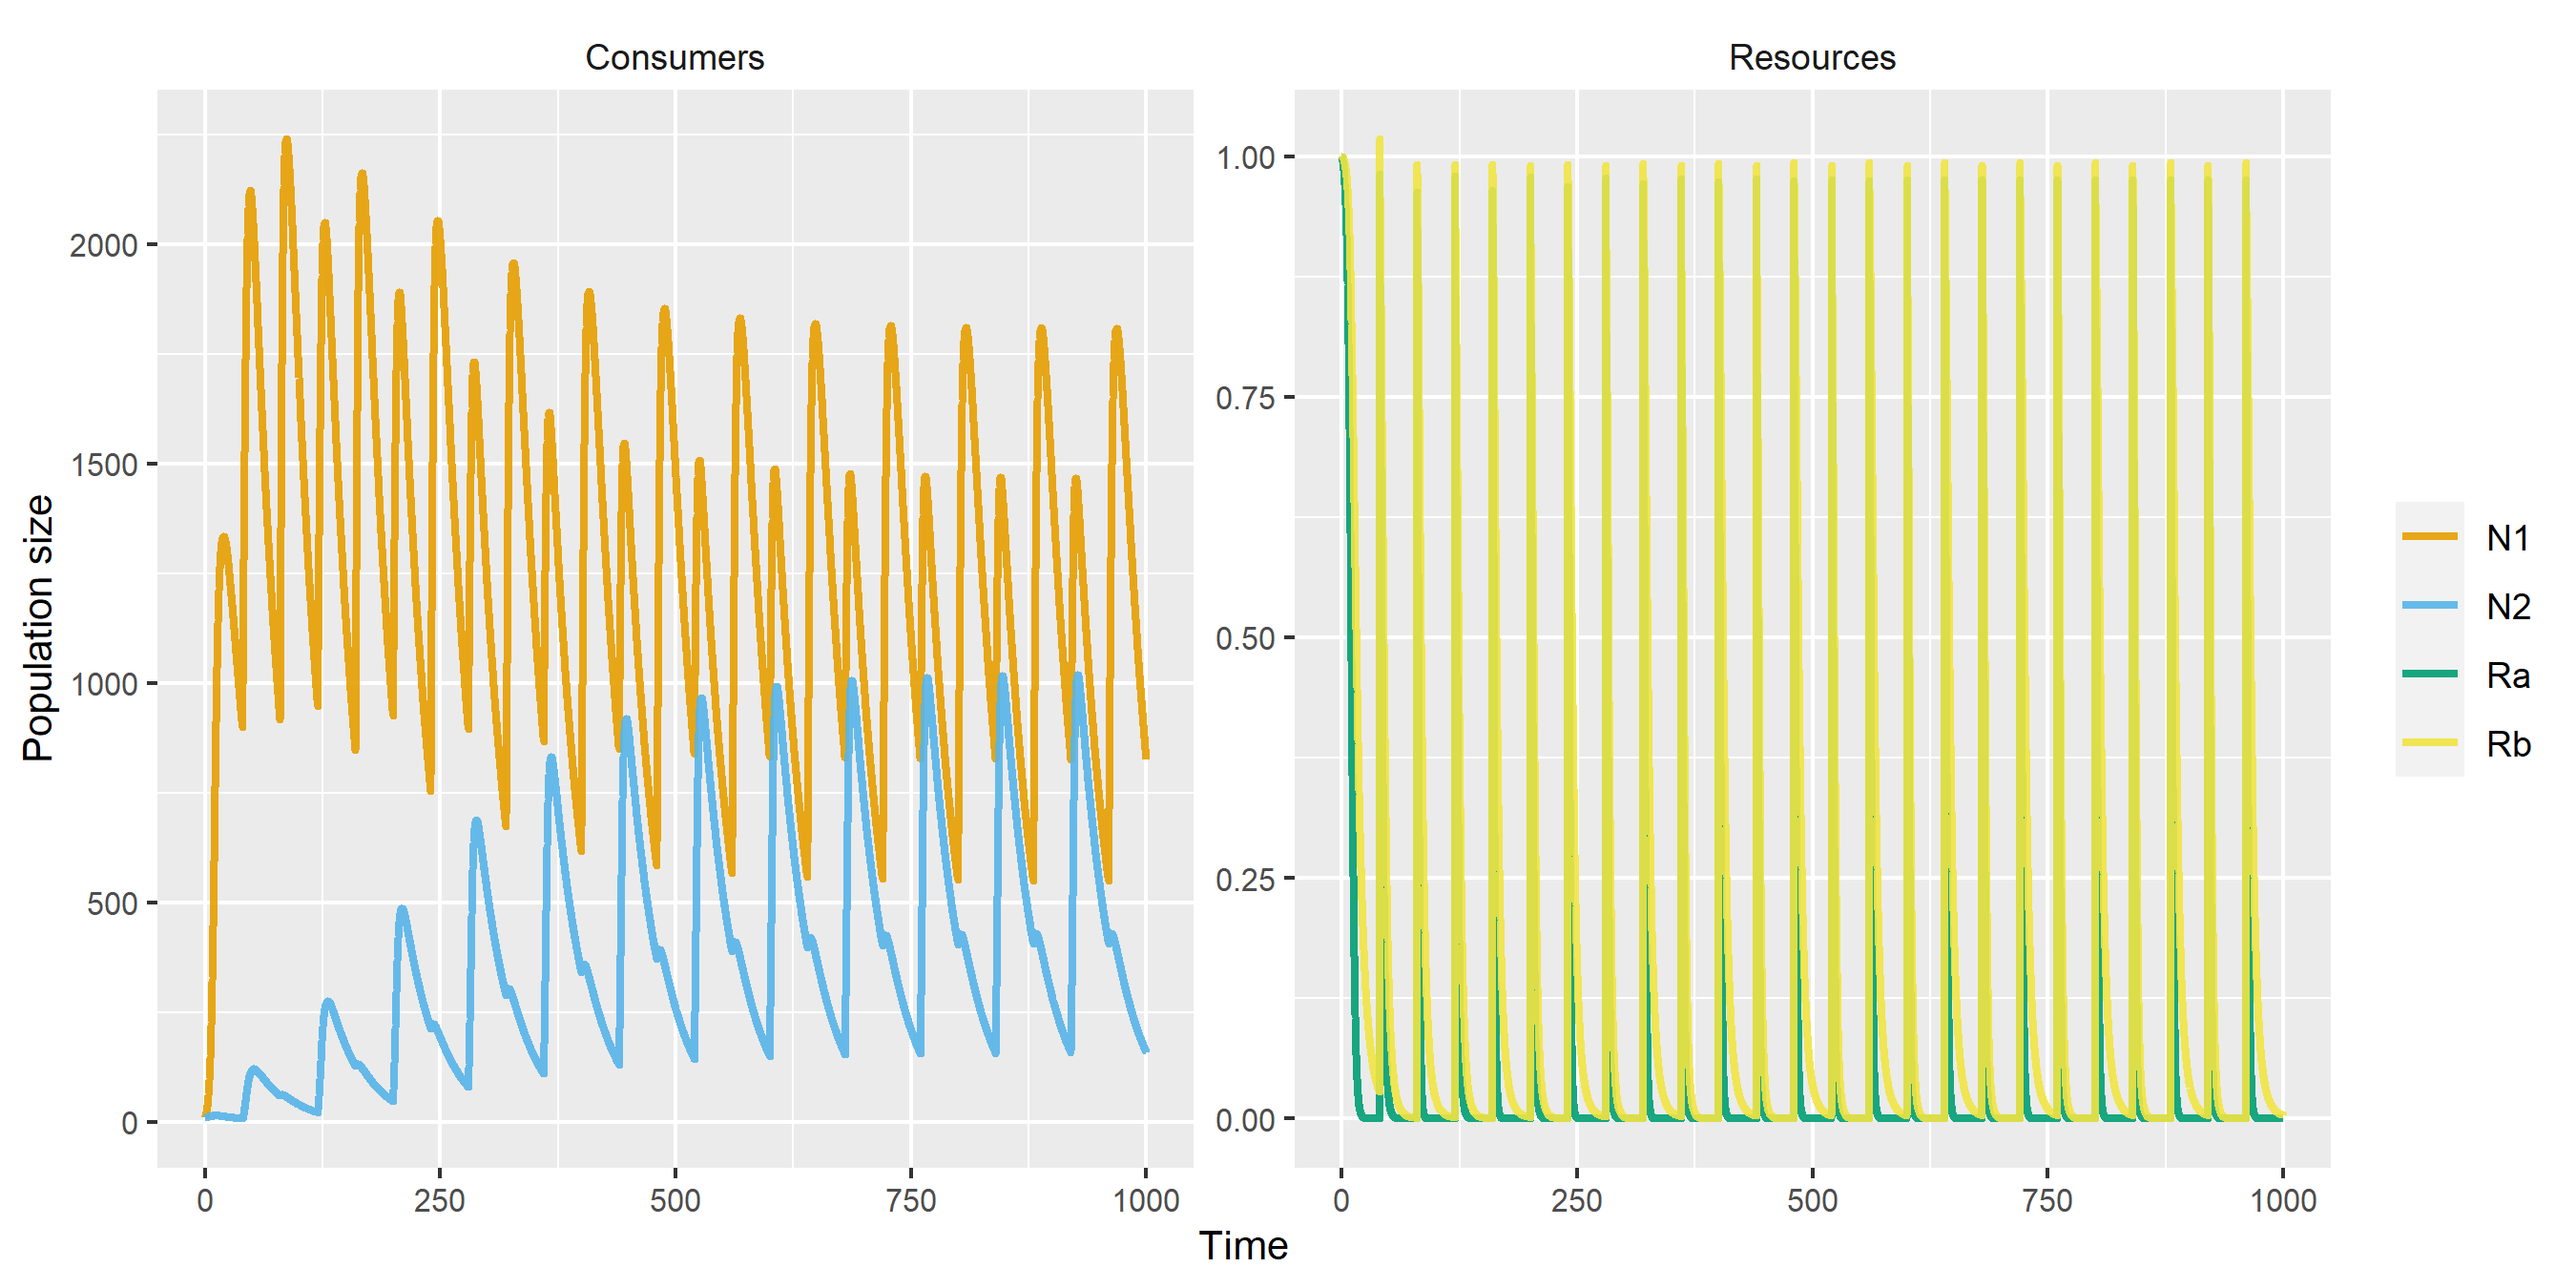
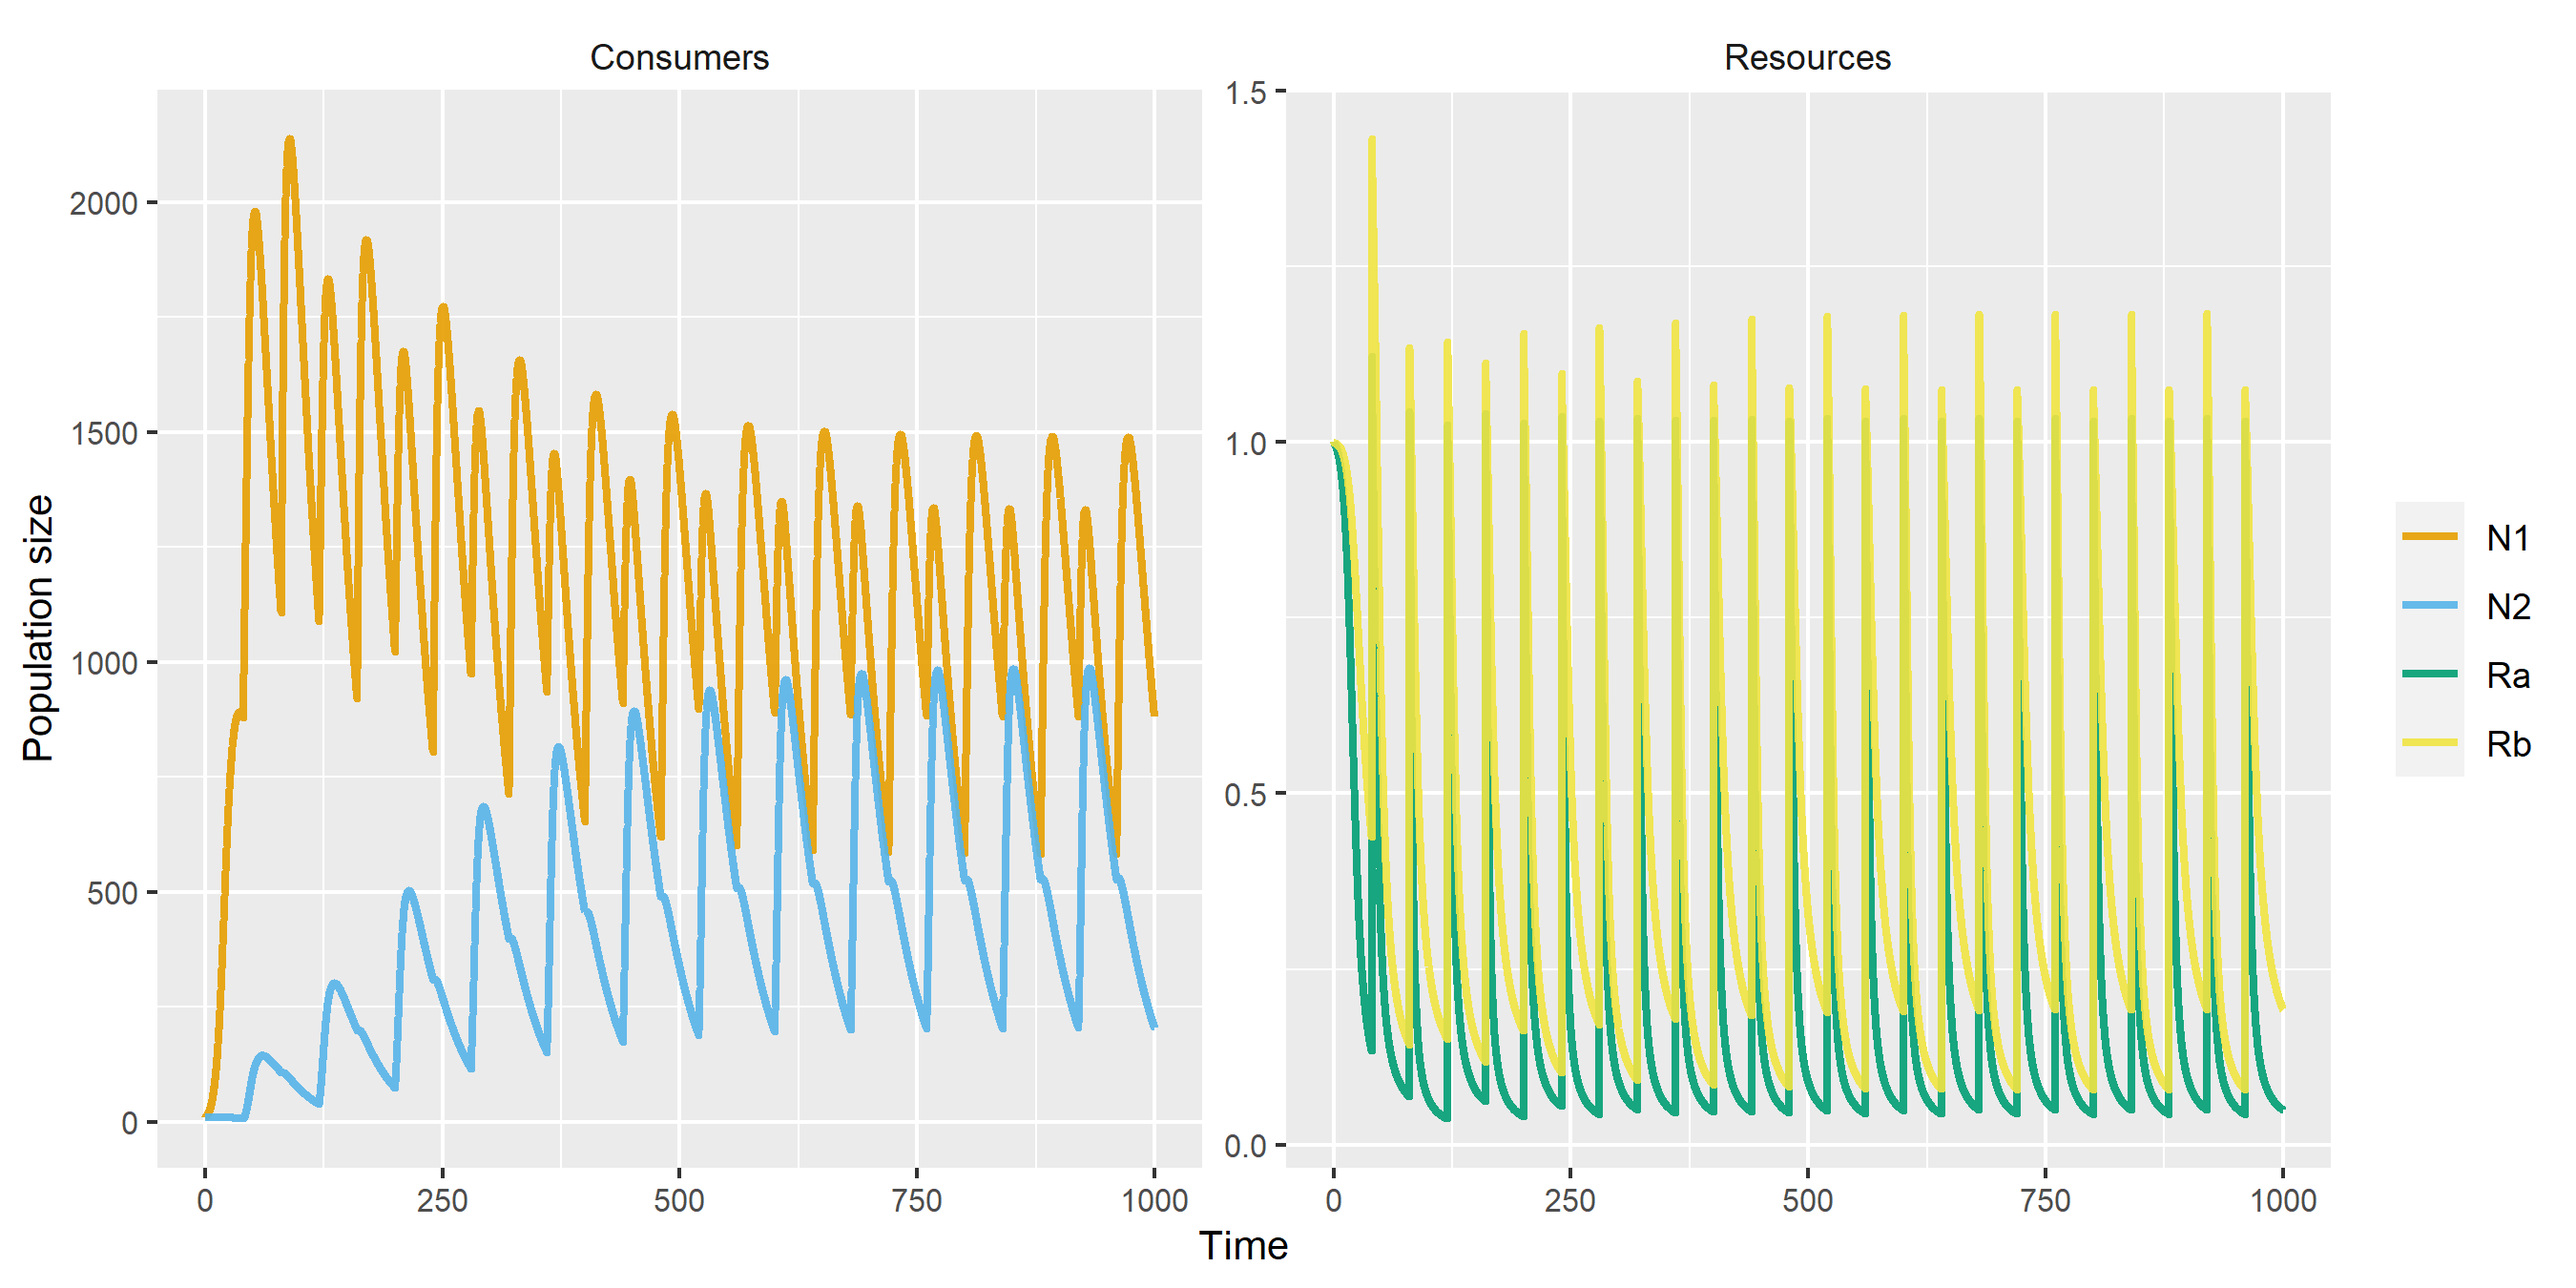
fixed bug with type 3 and modified example in readme

diff --git a/README.md b/README.md
@@ -97,7 +97,7 @@ See `?spec_rescomp` for all argument options.
 
 The following two examples demonstrate how to build and simulate a model
 for: i) two consumers with type II functional responses on a single
-logistically growing resources; and ii) two consumers with type I
+logistically growing resources; and ii) two consumers with type III
 functional responses with pulsed resources and time dependent
 consumptions parameters. A wide range of other examples can be found in
 the package vignette.
@@ -152,7 +152,7 @@ plot_rescomp(m2, pars)
 pars <- spec_rescomp(
   spnum = 2, 
   resnum = 2,
-  funcresp = "type1",
+  funcresp = "type3",
   timepars = TRUE,
   timeparfreq = 40,
   mumatrix = list(matrix(c(0.4,0.1,
@@ -173,7 +173,7 @@ pars <- spec_rescomp(
 )
 #> Model properties 
 #>  * 2 consumer(s) and 2 resource(s)
-#>  * Consumers have type 1 functional responses
+#>  * Consumers have type 3 functional responses
 #>  * Resources are substitutable
 #>  * Resource supply is pulsed only
 #>  * Mortality is continuous
